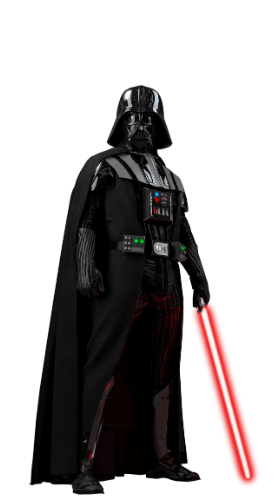
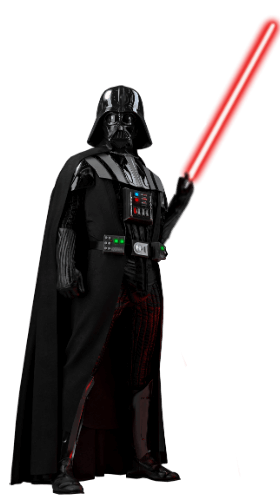
added some animations

Changed region(s): [[0.0286, 0.03, 1.0, 0.99], [0.4857, 0.72, 0.5143, 0.75], [0.3143, 0.75, 0.3429, 0.78]]

diff --git a/assets/javascript/javascript.js b/assets/javascript/javascript.js
@@ -126,6 +126,8 @@ $(document).ready(function() {
   });
 
   $("#action").on("click", function() {
+    $("#myChar").animate({left:'40%'},100);
+    $("#myChar").animate({left:'0%'},100);
     starWarsRPG.currentOpponentHealth -= starWarsRPG.currentAP;
     allAudio.hit.load();
     allAudio.hit.play();
@@ -138,6 +140,7 @@ $(document).ready(function() {
       $("#opponentHP").css("width", "0%");
       $("#opponentHealth").html("<span>0 HP</span>");
       if (starWarsRPG.remainingOpponents.length === 0) {
+        $("#oppChar").html("");
         setTimeout(function() {
           if(confirm("You win! Would you like to start a new game?")) {
             location.reload();
@@ -148,10 +151,13 @@ $(document).ready(function() {
           starWarsRPG.currentAP+=character[starWarsRPG.currentPlayer].ap;
         }
         starWarsRPG.opponentDead = true;
+        $("#oppChar").html("");
         $("#result").html("You win, select new opponent");
       }
     }
     else {
+      $("#oppChar").animate({right:'20%'},100);
+      $("#oppChar").animate({right:'0%'},100);
       starWarsRPG.currentPlayerHealth -= character[starWarsRPG.currentOpponent].counter;
       starWarsRPG.currentAP+=character[starWarsRPG.currentPlayer].ap;
       newPercent = starWarsRPG.currentPlayerHealth / character[starWarsRPG.currentPlayer].hp * 100;
